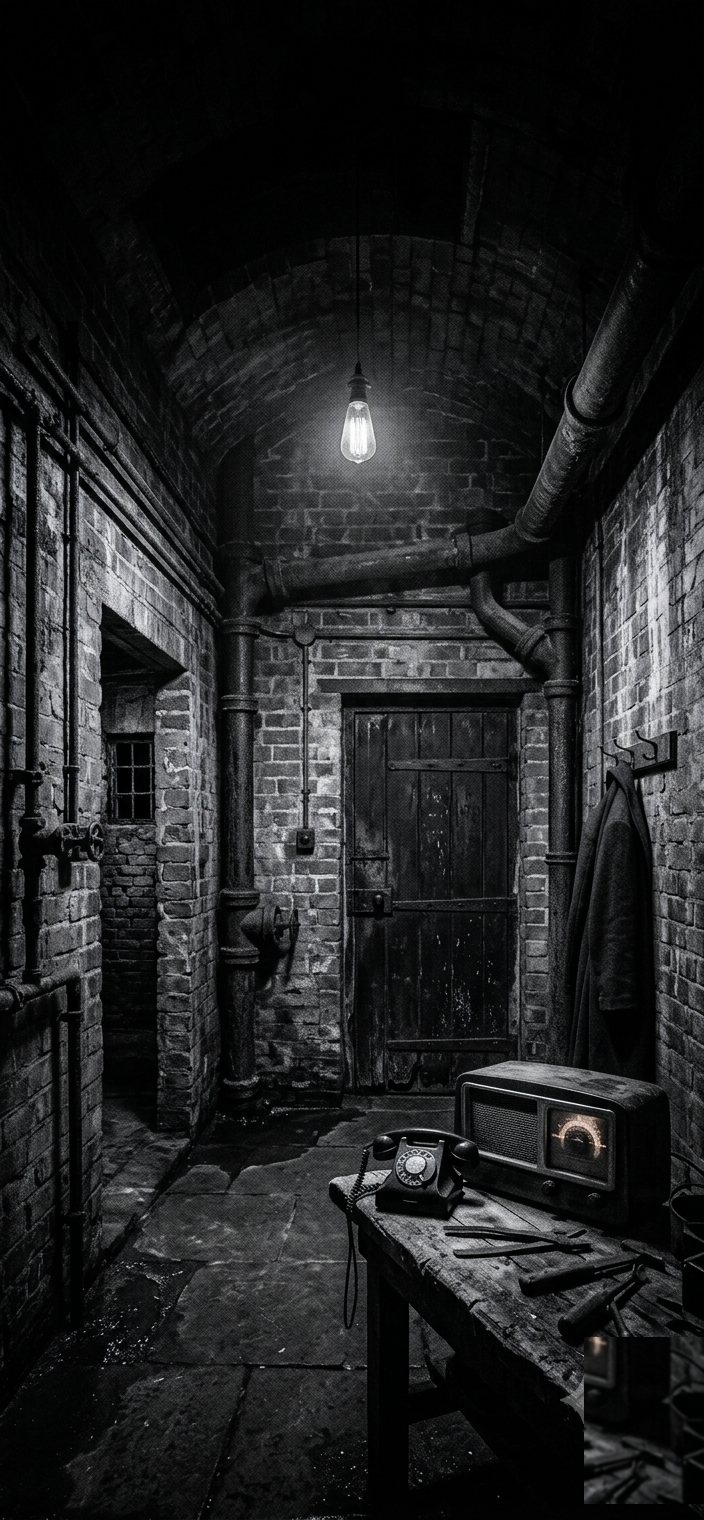
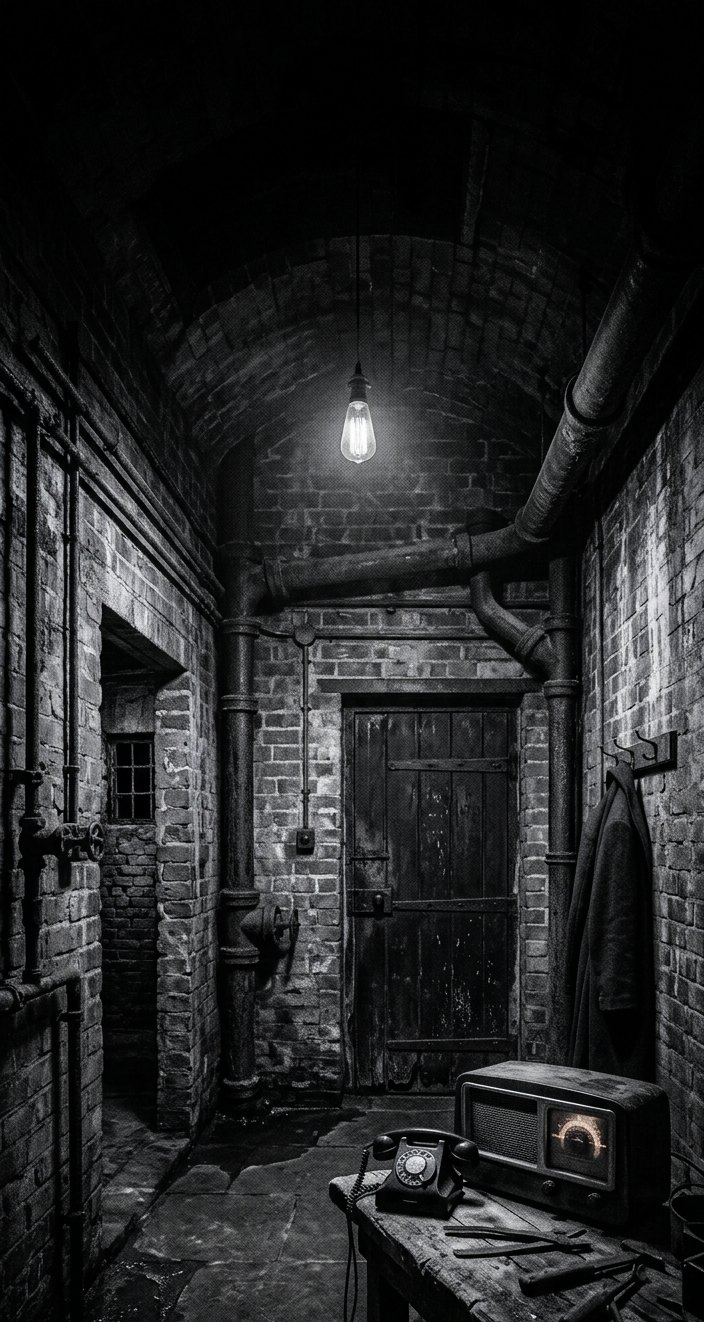
Line-by-line prose reveal + crop watermarks cleanly
- ProseReveal: narration now reveals LINE BY LINE (each rendered line has its
  own scroll-driven opacity) instead of a paragraph at a time. Left-aligned
  (dropping justify), which also fixes the max-Dynamic-Type prose clipping.
- Watermark removal redone by CROPPING the corner (foolproof, no fill smudge)
  after the feathered-fill approach left visible artifacts. Backdrops drop a
  bottom strip (cover-cropped on device anyway); plates centered-crop the
  outer ring and stay square.

diff --git a/src/engine/ProseReveal.tsx b/src/engine/ProseReveal.tsx
@@ -1,0 +1,96 @@
+// src/engine/ProseReveal.tsx
+// Line-by-line scroll-driven reveal for narration. A prose block is measured
+// into its actual laid-out lines, then each line is rendered as its own
+// Animated.Text whose opacity is bound to that line's position in the scroll —
+// so a paragraph materialises line by line as the reader draws it up into the
+// reading zone, and fades back out on the way up. (Left-aligned, not
+// justified: single-line Texts can't justify anyway, and dropping justify also
+// fixes the max-Dynamic-Type clipping the justified block had.)
+
+import { useState } from 'react';
+import {
+  Animated,
+  LayoutChangeEvent,
+  StyleSheet,
+  Text,
+  TextLayoutLine,
+} from 'react-native';
+import { colors, fonts } from '../theme';
+
+export function ProseReveal({
+  text,
+  faded,
+  scrollY,
+  viewH,
+  onMeasure,
+}: {
+  text: string;
+  faded?: boolean;
+  scrollY: Animated.Value;
+  viewH: number;
+  onMeasure: (y: number) => void;
+}) {
+  const [top, setTop] = useState<number | null>(null);
+  const [lines, setLines] = useState<{ text: string; y: number }[] | null>(null);
+
+  const measured =
+    lines && top != null && viewH > 0 ? { lines, top } : null;
+
+  return (
+    <Animated.View
+      style={styles.block}
+      onLayout={(e: LayoutChangeEvent) => {
+        const y = e.nativeEvent.layout.y;
+        setTop(y);
+        onMeasure(y);
+      }}
+    >
+      {/* Always-mounted hidden measurer: reports the laid-out lines at the
+          current width/text-size and re-fires when either changes. */}
+      <Text
+        style={[styles.line, styles.measure]}
+        onTextLayout={(e) =>
+          setLines(
+            (e.nativeEvent.lines as TextLayoutLine[]).map((l) => ({
+              text: l.text,
+              y: l.y,
+            })),
+          )
+        }
+      >
+        {text}
+      </Text>
+
+      {measured ? (
+        measured.lines.map((ln, i) => {
+          const absTop = measured.top + ln.y;
+          const opacity = scrollY.interpolate({
+            inputRange: [absTop - viewH * 0.6, absTop - viewH * 0.38],
+            outputRange: [0, 1],
+            extrapolate: 'clamp',
+          });
+          return (
+            <Animated.Text
+              key={i}
+              style={[styles.line, faded && { color: colors.proseFaded }, { opacity }]}
+            >
+              {ln.text.replace(/\n$/, '') || ' '}
+            </Animated.Text>
+          );
+        })
+      ) : (
+        // Before measurement: reserve the block's height, invisibly.
+        <Text style={[styles.line, styles.hidden]}>{text}</Text>
+      )}
+    </Animated.View>
+  );
+}
+
+const LINE = { fontFamily: fonts.serif, fontSize: 19, lineHeight: 34, color: colors.prose };
+
+const styles = StyleSheet.create({
+  block: { marginBottom: 30 },
+  line: { ...LINE, textAlign: 'left' },
+  measure: { position: 'absolute', top: 0, left: 0, right: 0, opacity: 0 },
+  hidden: { opacity: 0 },
+});

diff --git a/src/engine/ChapterView.tsx b/src/engine/ChapterView.tsx
@@ -43,6 +43,7 @@ import {
 import { RadioTuner } from './RadioTuner';
 import { Keypad } from './Keypad';
 import { SceneBackdrop } from './SceneBackdrop';
+import { ProseReveal } from './ProseReveal';
 
 export function ChapterView({
   chapter,
@@ -152,17 +153,30 @@ export function ChapterView({
         }}
         scrollEventThrottle={16}
       >
-        {blocks.slice(0, count).map((block, i) => (
-          <BlockReveal
-            key={i}
-            scrollY={scrollY}
-            viewH={viewH}
-            exempt={isGate(block) || block.kind === 'chapterEnd'}
-            onMeasure={recordTop(i)}
-          >
-            {renderBlock(block, i, solved.has(i), solveGate, onComplete)}
-          </BlockReveal>
-        ))}
+        {blocks.slice(0, count).map((block, i) =>
+          // Narration reveals line by line (its own scroll-driven opacity per
+          // line); every other block reveals as a whole.
+          block.kind === 'prose' ? (
+            <ProseReveal
+              key={i}
+              text={block.text}
+              faded={block.faded}
+              scrollY={scrollY}
+              viewH={viewH}
+              onMeasure={recordTop(i)}
+            />
+          ) : (
+            <BlockReveal
+              key={i}
+              scrollY={scrollY}
+              viewH={viewH}
+              exempt={isGate(block) || block.kind === 'chapterEnd'}
+              onMeasure={recordTop(i)}
+            >
+              {renderBlock(block, i, solved.has(i), solveGate, onComplete)}
+            </BlockReveal>
+          ),
+        )}
       </Animated.ScrollView>
     </View>
   );
